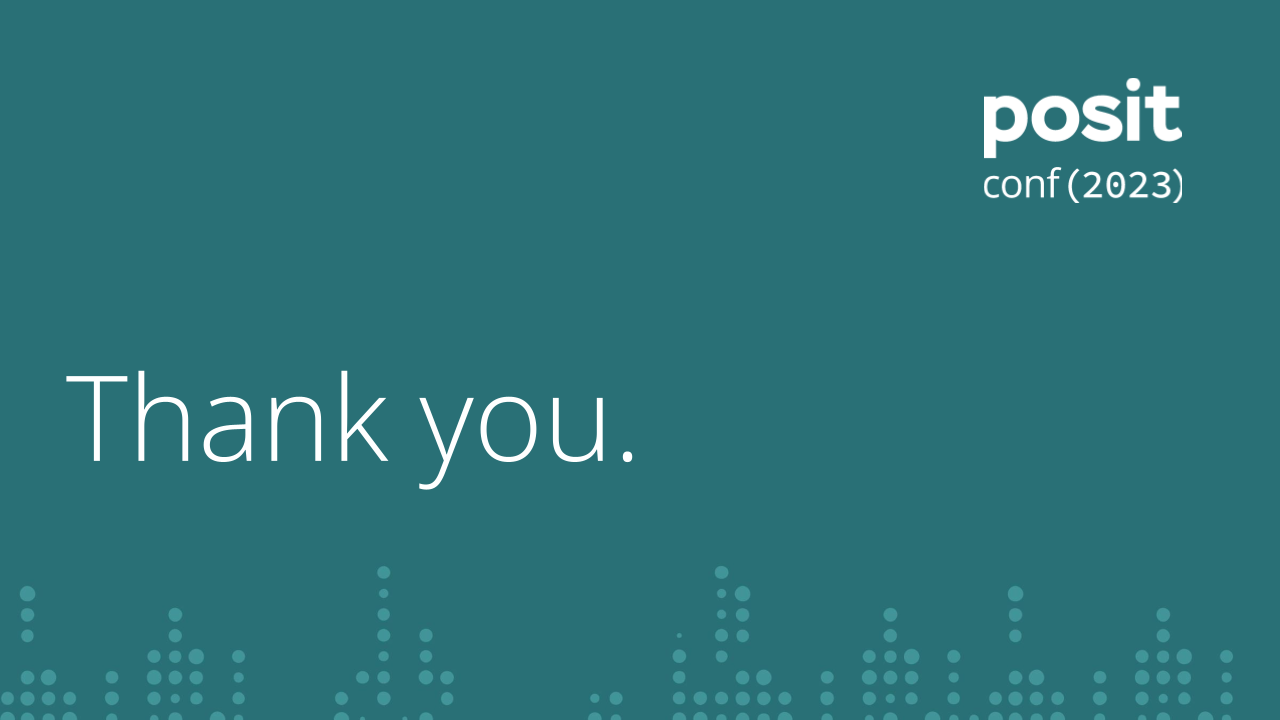
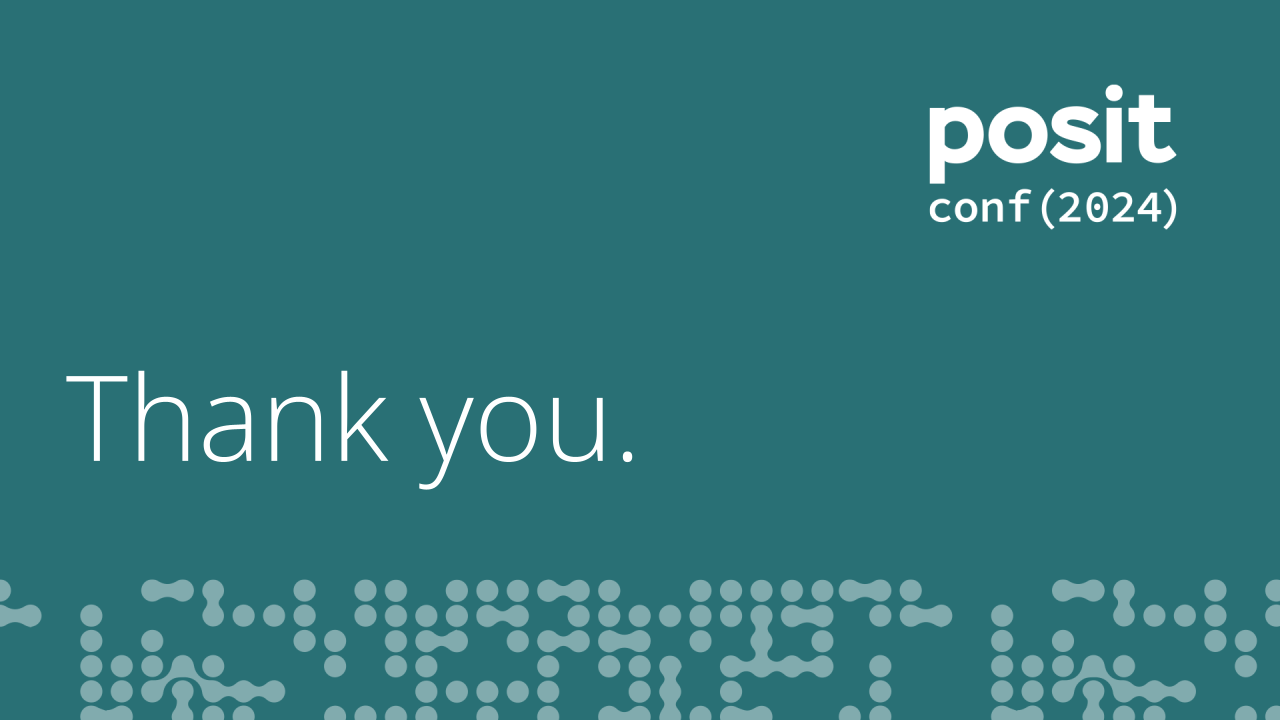
Improvements to push examples, updates thank you background

Changed region(s): [[0.0, 0.7944, 1.0, 1.0], [0.7188, 0.0917, 0.9375, 0.3361], [0.0, 0.7944, 0.0312, 0.8861]]

diff --git a/materials/presentation/theme.scss b/materials/presentation/theme.scss
@@ -105,3 +105,22 @@ $font-family-sans-serif: "Source Sans Pro", !default;
   font-weight: 100;
   font-family:Helvetica Neue
 }
+
+
+.push-thin p {
+  font-size: 50px;
+  font-weight: 200;
+  font-family:Helvetica Neue
+}
+
+.push p {
+  text-align: center;
+  color: #579297;
+  font-size: 60px;
+  font-weight: 700;
+}
+
+.push code {
+  font-size: 50px;
+  font-weight: 1000;
+}
